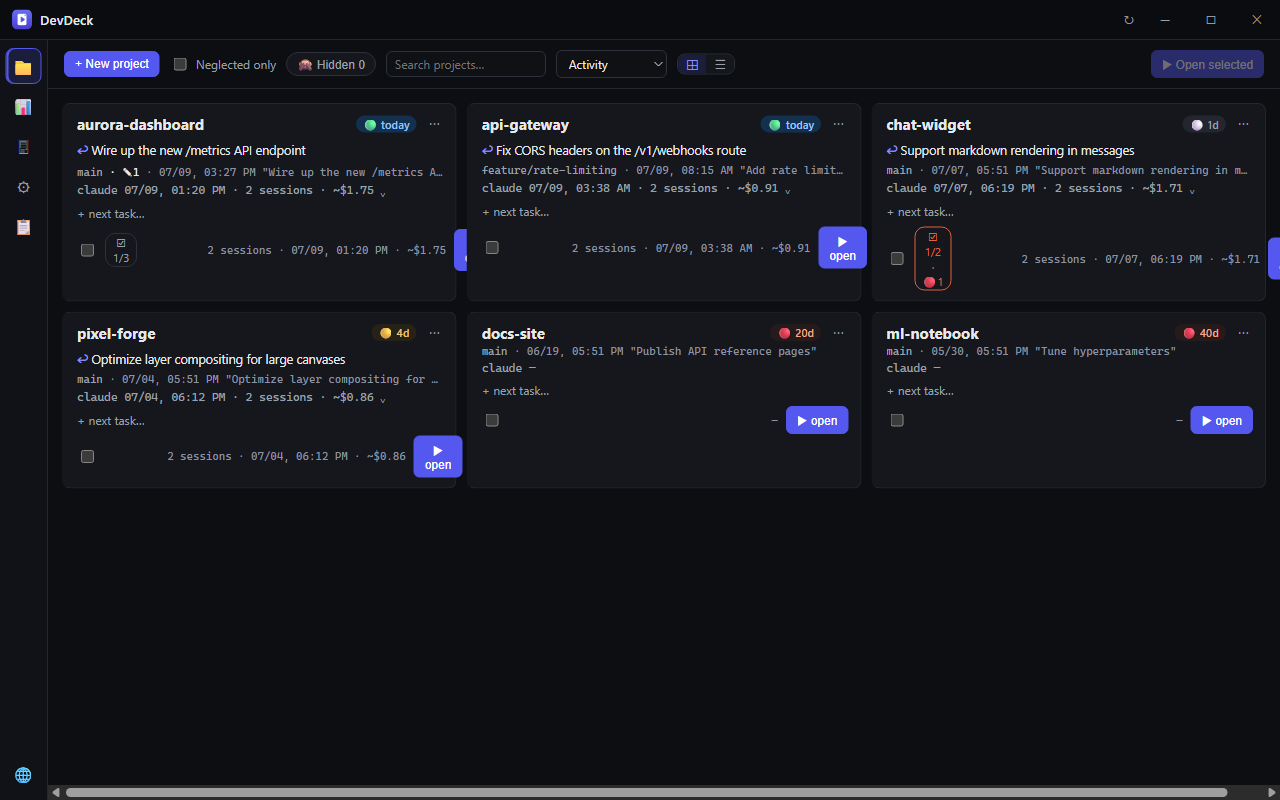
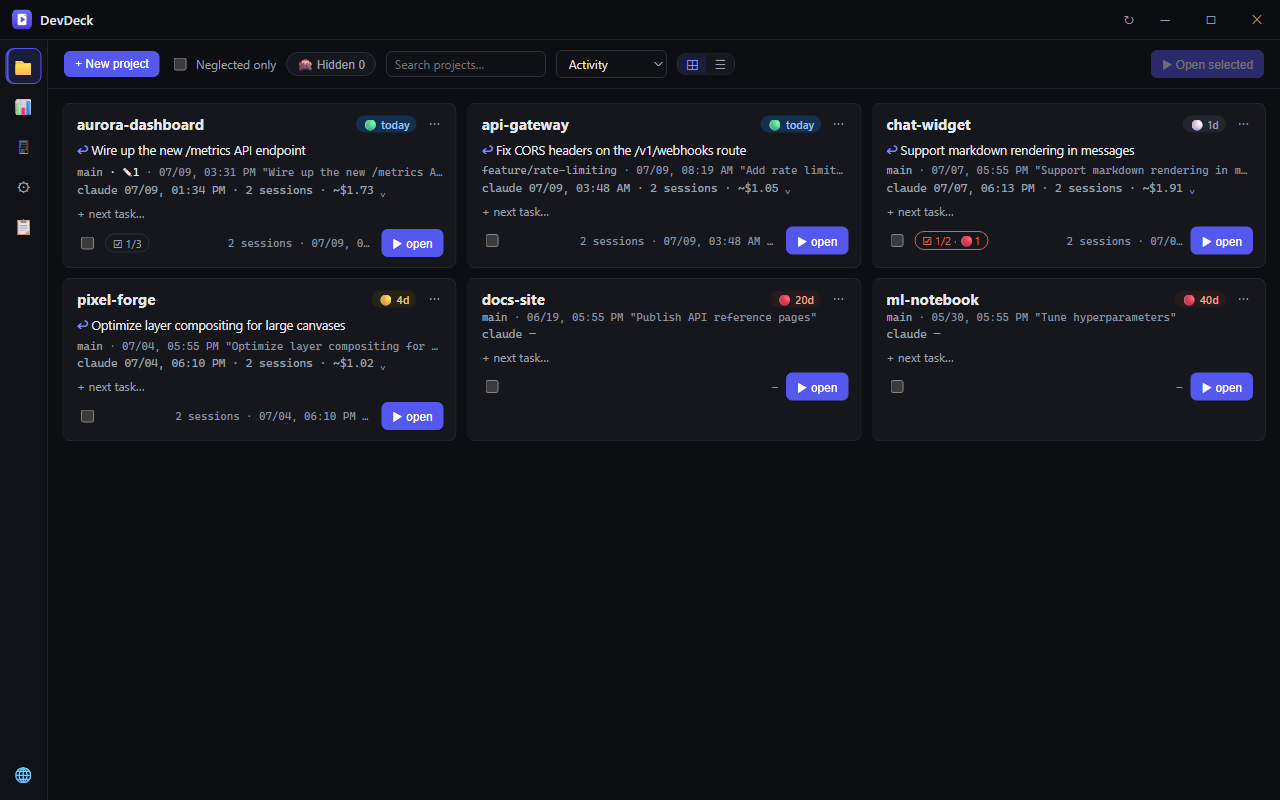
fix(deck): keep card foot actions inside the card when meta is wide
.cardfoot's nowrap meta span had no min-width:0, so a flex row with both
a task badge and a full "N sessions · date · ~$cost" meta line could not
shrink below its full text width, pushing the primary open button past
the card's right edge. Meta now ellipsizes and shrinks; the task badge,
icon buttons, and open button stay pinned at natural size.

Regenerated the 4 README screenshots via the isolated demo-world capture
script to reflect the fix (tasks.png byte-identical, so unchanged).

diff --git a/src/renderer/styles.css b/src/renderer/styles.css
@@ -156,7 +156,17 @@ button.primary:hover { background: var(--accent-hover); }
 .cardfoot .iconbtn, .cardfoot .gh-btn { opacity: 0; transition: opacity .12s; }
 .card:hover .cardfoot .iconbtn, .card:hover .cardfoot .gh-btn,
 .card:focus-within .cardfoot .iconbtn, .card:focus-within .cardfoot .gh-btn { opacity: 1; }
-.cardfoot .foot-meta { font-family: var(--mono); font-size: var(--fs-meta); color: var(--text-faint); white-space: nowrap; }
+/* Meta is the one row member allowed to shrink — a nowrap flex child's default min-width:auto
+   otherwise floors it at its full text width, so a task badge + long meta together overflow
+   the card and shove the primary "open" button past the right edge. Ellipsize instead. */
+.cardfoot .foot-meta {
+  font-family: var(--mono); font-size: var(--fs-meta); color: var(--text-faint);
+  white-space: nowrap; overflow: hidden; text-overflow: ellipsis; min-width: 0; flex-shrink: 1;
+}
+/* Everything else in the foot keeps its natural size — the shrink budget above comes only
+   from the meta text, so the open button (and task badge) never get squeezed or wrapped. */
+.cardfoot > input[type="checkbox"], .cardfoot .task-badge, .cardfoot .iconbtn,
+.cardfoot .gh-btn, .cardfoot .primary { flex-shrink: 0; }
 
 .next-head { padding: 14px 16px 8px; font-size: 14px; font-weight: 600; color: var(--text); }
 /* Task board (Next view) — one control bar: [project][new-todo][date][add] | separator | [filter project][filter][show-done](+clear) | [list|calendar] */